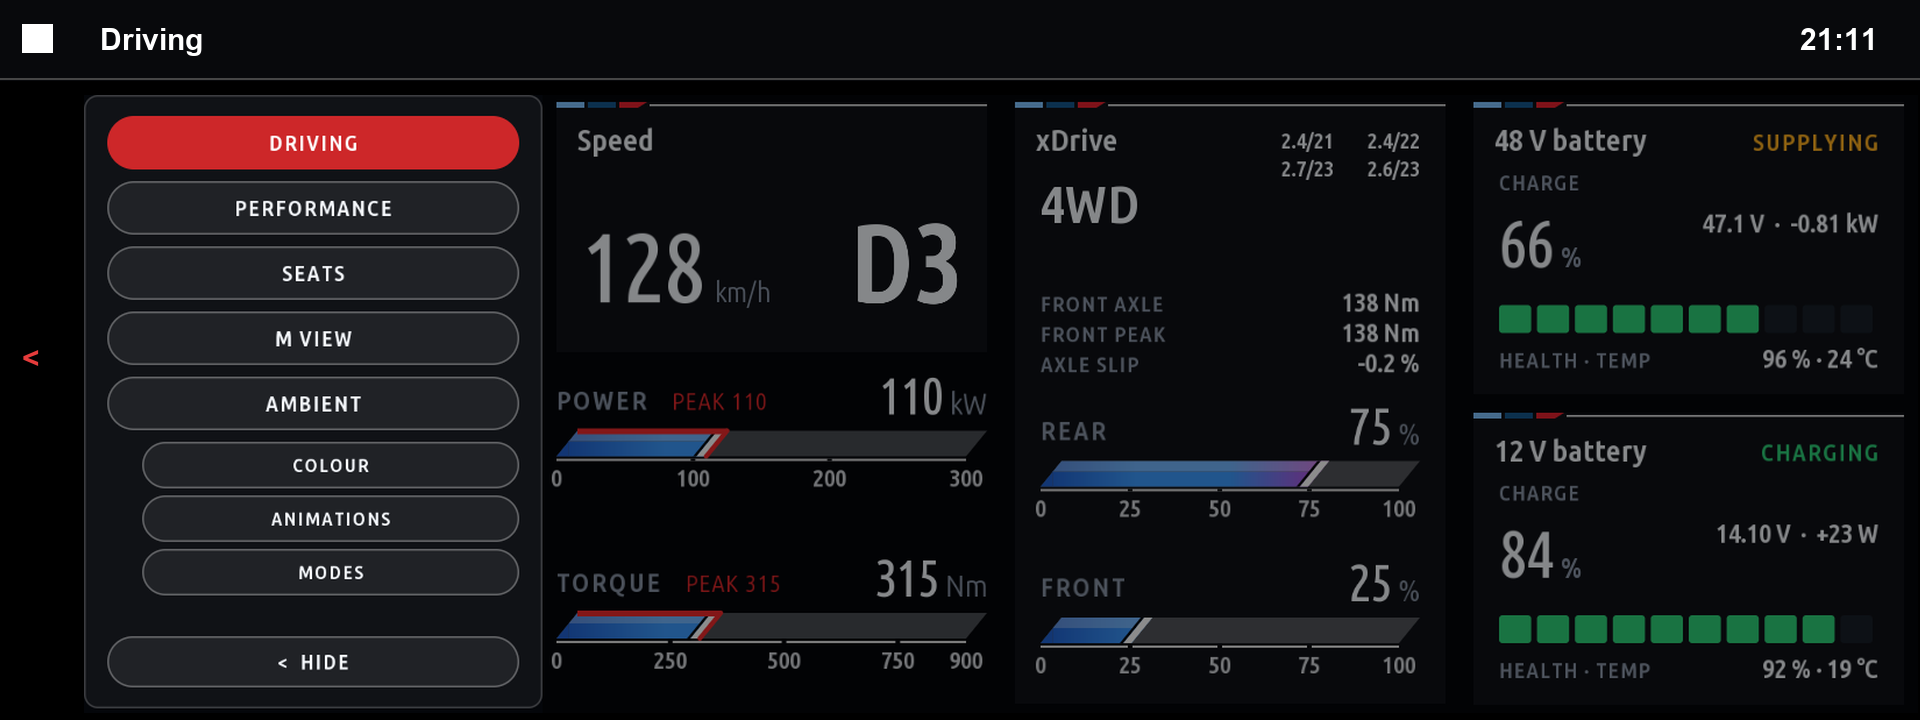
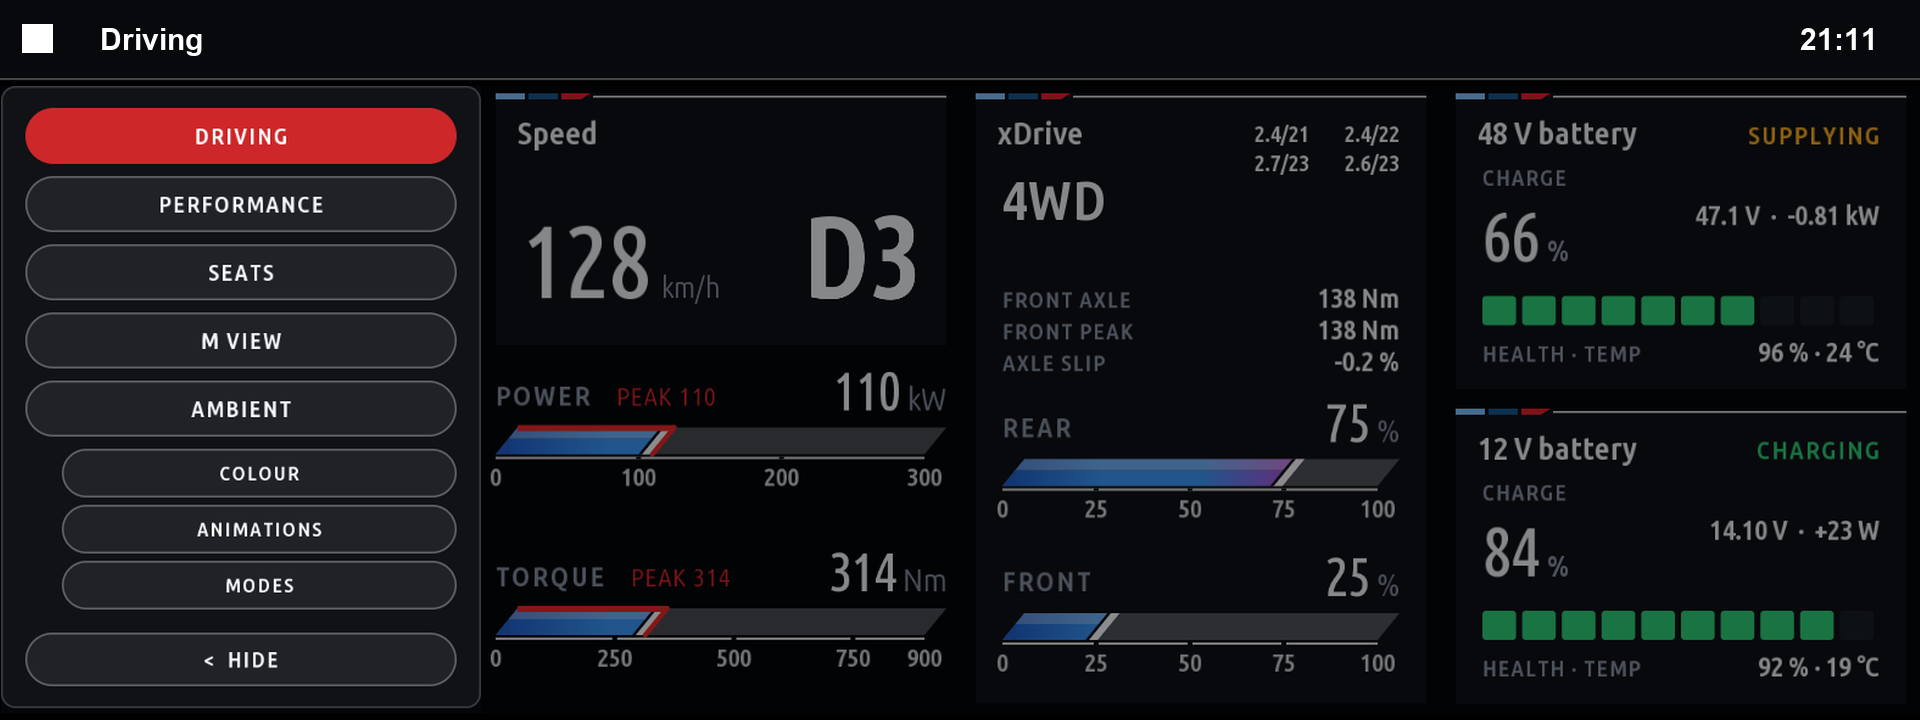
Map style: the page over the back arrow column, the same margin left and right
The kit kept the HMI's back arrow column (x 0..84) see-through in the full layout, so in map
style the cards started 99 px from the left edge but 15 px from the right. In map style the
page is now placed over the whole width (scale 1.164 -> 1.218); only the home button in the
header stays the HMI's, and touches on the column's page part are the app's (its left bar).

diff --git a/kit/runtime/display.js b/kit/runtime/display.js
@@ -550,7 +550,8 @@ class Display {
         const he = HMI.status.h ? this.headEnd : W;
         if (this.own()) {
             // header (tabs), page and the slim bar: the back column and the status corner stay the HMI's
-            this.gpu.claim([{ x: hx, y: 0, w: he - hx, h: this.headH() }, { x: hx, y: this.headH(), w: W - hx, h: pl.h - this.headH() }].map(logical));
+            const px = pl.left === 0 ? -pl.x : hx;     // (map style: the back arrow column's page part is the app's)
+            this.gpu.claim([{ x: hx, y: 0, w: he - hx, h: this.headH() }, { x: px, y: this.headH(), w: W - px, h: pl.h - this.headH() }].map(logical));
             return;
         }
         if (!this.onTab || this.tabs.length < 2) { this.gpu.claim([]); return; }
@@ -631,13 +632,16 @@ class Display {
             // iDrive 7: the surface covers the whole screen, so the HMI's own bar can't show under the back
             // arrow column; the page content goes right of that column. iDrive 8: the area under its status bar
             const a = HMI.area ? this._area(HMI) : { x: 0, y: 0, w: scr.w, h: scr.h };
-            const w = a.w - HMI.left, h = a.h, src = FULL.src;
+            // map style (2.5.2): the page over the back arrow column too (only the home button above it stays the
+            // HMI's), so its left margin is the right one's - BMW's map covers the column the same way
+            const left = v === 'map' ? 0 : HMI.left;
+            const w = a.w - left, h = a.h, src = FULL.src;
             const ah = h - this.headH() - this.barH();
             const s = Math.floor(Math.min(w / src.w, ah / src.h) * 1000) / 1000;
             pl = {
                 x: a.x, y: a.y, w: a.w, h, full: true,
                 scale: s,
-                ox: HMI.left + Math.round((w - src.w * s) / 2 - src.x * s),
+                ox: left + Math.round((w - src.w * s) / 2 - src.x * s), left,
                 oy: Math.round(this.headH() + (ah - src.h * s) / 2 - src.y * s),
             };
             // no bar under the page (the kit's, emptied): a page that reaches down (its panels, a sheet: it reads
@@ -928,7 +932,7 @@ class Display {
         // the column under them is covered, so the HMI's own bar doesn't show at the bottom left, nor the
         // mark the HMI draws above it when its bar is wider than the screen (eDrive's "Reset drive totals")
         c.clip(sx, 0, W - sx, HMI.status.h).clear(0).noclip();
-        if (hx > 0) c.clip(0, 0, hx, HMI.colEnd - pl.y).clear(0).noclip();
+        if (hx > 0) c.clip(0, 0, hx, (pl.left === 0 ? FULL.headH : HMI.colEnd) - pl.y).clear(0).noclip();
         drawCredit(c, W - 18, FULL.headH + 17);
         r.xf(1, 0, 0).append(c).xf();
     }

diff --git a/kit/tools/test_runtime.js b/kit/tools/test_runtime.js
@@ -116,6 +116,11 @@ test('map style (layout "map"): the full layout, no tabs in the header (it names
         const r = t.d.canvas(1600, 520); r.chrome = { tabs: { tabs: ['Driving', 'M View'], sel: 1, badges: [] } };
         t.d.present('MAIN', r, () => Promise.resolve()); await sleep(30);
         assert.deepStrictEqual(t.d._tabList().tabs, [], 'no tabs (and no Settings tab)');
+        // 2.5.2: the page over the back arrow column too, the same margin left and right; its touches the app's
+        const pl = t.d.place, lx = pl.ox + 24 * pl.scale, rx = pl.w - (pl.ox + 1576 * pl.scale);
+        assert(Math.abs(lx - rx) <= 2 && lx < 40, 'the cards as far from the left edge as from the right: ' + lx + ' / ' + rx);
+        const cl = JSON.parse(t.d.gpu.claimed || '[]');
+        assert(cl.some((q) => q.x * pl.scale + pl.ox <= 1 && q.y * pl.scale + pl.oy >= 70), 'the page claimed from the left edge: ' + t.d.gpu.claimed);
         let opened = 0;
         t.d._click = (id) => { if (id === 'BTN_SETTINGS') opened++; };
         t.d.openSettings();

diff --git a/README.md b/README.md
@@ -102,7 +102,7 @@ Settings > Screen > **Screen layout** picks one of three:
 | **Map style** | BMW's map: no tabs, the header names the page | a left side bar | a right side bar |
 | **Standard** | BMW's own title and bottom bar | in the page | BMW's bottom bar, hidden 5 s after the last touch |
 
-**Map style:** the cards use the whole height of the screen (no bar under them), with nothing drawn on the edges, as on BMW's map. An open bar covers one column and dims the rest of the page.
+**Map style:** the cards use the whole height of the screen (no bar under them), and over the back arrow column too, so the left margin is the same as the right one (BACK and the home button still work). Nothing is drawn on the edges, as on BMW's map. An open bar covers one column and dims the rest of the page.
 
 <img src="docs/screens/combo_map.png" alt="Map style: Driving over the whole height" width="100%">
 
